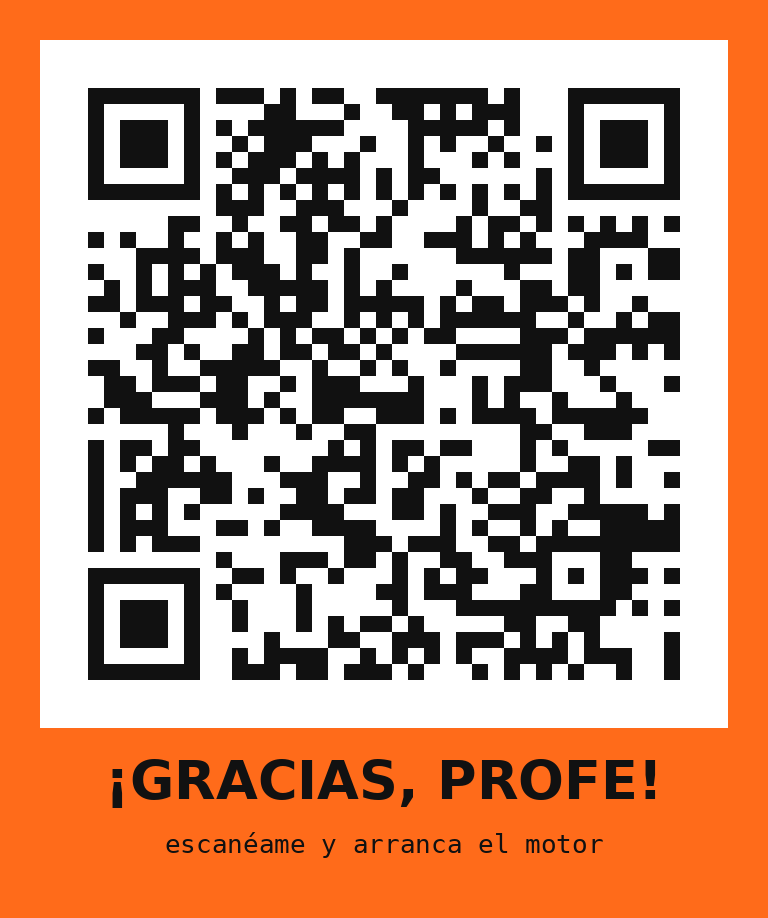
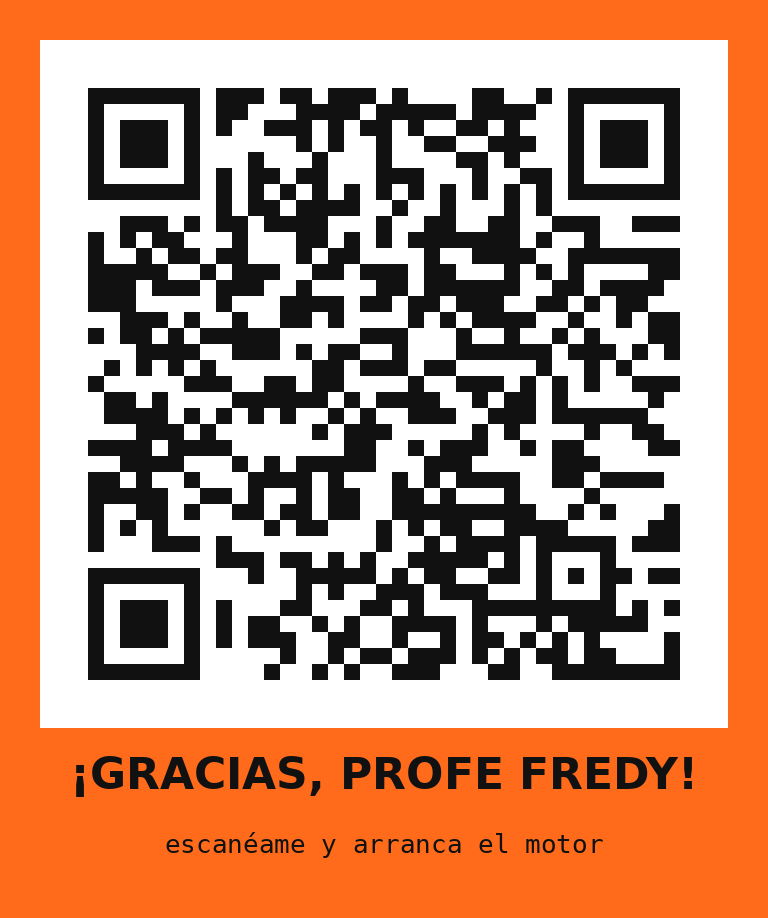
QR apuntando a gracias-profe-motocrosss.vercel.app
Claude-Session: https://claude.ai/code/session_01CRYm5EAg1QeAphEdbPfG9c

Changed region(s): [[0.0938, 0.0915, 0.9062, 0.7625], [0.0938, 0.8235, 0.9062, 0.8845]]

diff --git a/README.md b/README.md
@@ -11,5 +11,5 @@ Abre `script.js` y cambia el bloque `CONFIG` del inicio:
 ## Desplegar en Vercel
 1. Sube esta carpeta a un repositorio de GitHub (o usa `npx vercel` dentro de la carpeta).
 2. En vercel.com → Add New → Project → importa el repo.
-3. Nombre del proyecto: **gracias-profe-motocross** (así la URL queda https://gracias-profe-motocross.vercel.app, que es la del QR).
+3. Nombre del proyecto: **gracias-profe-motocrosss** (así la URL queda https://gracias-profe-motocrosss.vercel.app, que es la del QR).
 4. Framework Preset: **Other**. Deploy.
